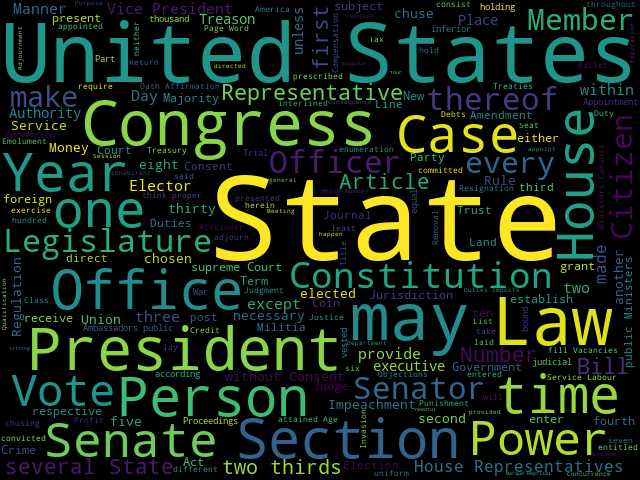
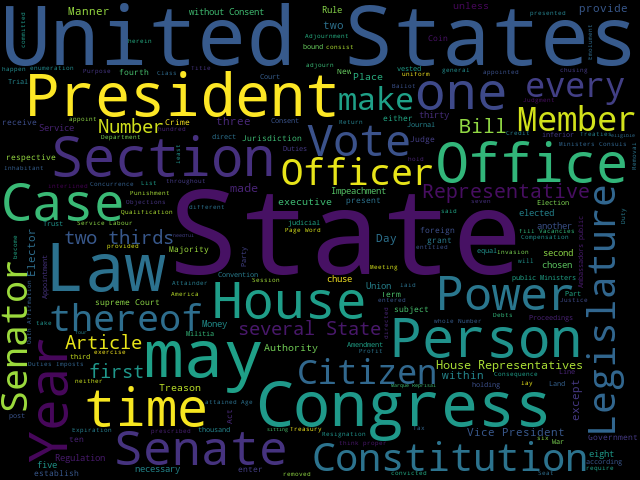
Site updated: 2017-08-25 18:28:23

diff --git a/2017/08/22/python-jieba-wordcloud/index.html b/2017/08/22/python-jieba-wordcloud/index.html
@@ -124,7 +124,7 @@ import jiebaseg_list = jieba.cut(srcWd, cut_all=True)print(u&apos;Full mode:&apo
 <meta property="og:image" content="https://brantou.github.io/images/constitution-s.png">
 <meta property="og:image" content="https://brantou.github.io/images/xiyouji.png">
 <meta property="og:image" content="https://brantou.github.io/images/xiyouji-mask.png">
-<meta property="og:updated_time" content="2017-08-25T10:25:33.066Z">
+<meta property="og:updated_time" content="2017-08-25T10:28:06.416Z">
 <meta name="twitter:card" content="summary">
 <meta name="twitter:title" content="玩转词云">
 <meta name="twitter:description" content="1 jieba中文分词&amp;#x2013;做最好的Python中文分词组件
@@ -466,12 +466,12 @@ import jiebaseg_list = jieba.cut(srcWd, cut_all=True)print(u&apos;Full mode:&apo
         
 
 
-<div id="outline-container-org070a5ba" class="outline-2">
-<h2 id="org070a5ba"><a id="ID-681fffd0-61dc-44eb-860a-82cfbfe2c080"></a><span class="section-number-2">1</span> jieba中文分词&#x2013;做最好的Python中文分词组件</h2>
+<div id="outline-container-orga13ae5a" class="outline-2">
+<h2 id="orga13ae5a"><a id="ID-681fffd0-61dc-44eb-860a-82cfbfe2c080"></a><span class="section-number-2">1</span> jieba中文分词&#x2013;做最好的Python中文分词组件</h2>
 <div class="outline-text-2" id="text-1">
 </div>
-<div id="outline-container-org3a57d0c" class="outline-3">
-<h3 id="org3a57d0c"><a id="ID-a7a6f9a3-eee0-4e7a-8ec2-a3281cbdb2ba"></a><span class="section-number-3">1.1</span> 分词</h3>
+<div id="outline-container-org812795e" class="outline-3">
+<h3 id="org812795e"><a id="ID-a7a6f9a3-eee0-4e7a-8ec2-a3281cbdb2ba"></a><span class="section-number-3">1.1</span> 分词</h3>
 <div class="outline-text-3" id="text-1-1">
 <div class="org-src-container">
 <figure class="highlight python"><table><tr><td class="code"><pre><span class="line"><span class="keyword">import</span> jieba</span><br><span class="line"></span><br><span class="line">seg_list = jieba.cut(srcWd, cut_all=<span class="keyword">True</span>)</span><br><span class="line">print(<span class="string">u'Full mode:'</span> + <span class="string">u'/ '</span>.join(seg_list))</span><br><span class="line"></span><br><span class="line">seg_list = jieba.cut(srcWd, cut_all=<span class="keyword">False</span>)</span><br><span class="line">print(<span class="string">u'Default mode:'</span> + <span class="string">u'/ '</span>.join(seg_list))</span><br><span class="line"></span><br><span class="line">seg_list = jieba.cut_for_search(srcWd)</span><br><span class="line">print(<span class="string">u', '</span>.join(seg_list))</span><br></pre></td></tr></table></figure>
@@ -492,8 +492,8 @@ Default mode:我/ 目前/ 在/ 学习/ Golang/ 和/ Python/ 。
 </pre>
 </div>
 </div>
-<div id="outline-container-orga263f2f" class="outline-3">
-<h3 id="orga263f2f"><a id="ID-ba473993-dd11-4116-8578-b31a6161ed0e"></a><span class="section-number-3">1.2</span> 自定义词典</h3>
+<div id="outline-container-org0109e6a" class="outline-3">
+<h3 id="org0109e6a"><a id="ID-ba473993-dd11-4116-8578-b31a6161ed0e"></a><span class="section-number-3">1.2</span> 自定义词典</h3>
 <div class="outline-text-3" id="text-1-2">
 <p>
 招聘信息收集了很多，但是关键字提取却不是很理想，我查看了jiaba的词典里，基本没有对英文专有名词的支持，
@@ -518,8 +518,8 @@ Default mode:我/ 目前/ 在/ 学习/ Golang/ 和/ Python/ 。
 </div>
 </div>
 
-<div id="outline-container-orgfebade0" class="outline-3">
-<h3 id="orgfebade0"><a id="ID-0f9f838d-0b96-4d20-bbd0-f9b31664e187"></a><span class="section-number-3">1.3</span> 调整词典</h3>
+<div id="outline-container-orgac26c4c" class="outline-3">
+<h3 id="orgac26c4c"><a id="ID-0f9f838d-0b96-4d20-bbd0-f9b31664e187"></a><span class="section-number-3">1.3</span> 调整词典</h3>
 <div class="outline-text-3" id="text-1-3">
 <div class="org-src-container">
 <figure class="highlight python"><table><tr><td class="code"><pre><span class="line"><span class="keyword">import</span> jieba</span><br><span class="line"><span class="keyword">import</span> jieba.analyse</span><br><span class="line"></span><br><span class="line">print(<span class="string">', '</span>.join(</span><br><span class="line">    jieba.analyse.extract_tags(srcWd, allowPOS=(<span class="string">'n'</span>, <span class="string">'nz'</span>, <span class="string">'eng'</span>, <span class="string">'vn'</span>))))</span><br><span class="line">jieba.load_userdict(<span class="string">'../resource/userdict.txt'</span>)</span><br><span class="line">print(<span class="string">', '</span>.join(</span><br><span class="line">    jieba.analyse.extract_tags(srcWd, allowPOS=(<span class="string">'n'</span>, <span class="string">'nz'</span>, <span class="string">'eng'</span>, <span class="string">'vn'</span>))))</span><br></pre></td></tr></table></figure>
@@ -533,8 +533,8 @@ Default mode:我/ 目前/ 在/ 学习/ Golang/ 和/ Python/ 。
 </div>
 </div>
 
-<div id="outline-container-org9c075c7" class="outline-3">
-<h3 id="org9c075c7"><a id="ID-7308abe6-a074-4153-a4c0-bb74f199bb07"></a><span class="section-number-3">1.4</span> 关键词提取</h3>
+<div id="outline-container-orgf624ef8" class="outline-3">
+<h3 id="orgf624ef8"><a id="ID-7308abe6-a074-4153-a4c0-bb74f199bb07"></a><span class="section-number-3">1.4</span> 关键词提取</h3>
 <div class="outline-text-3" id="text-1-4">
 <div class="org-src-container">
 <figure class="highlight python"><table><tr><td class="code"><pre><span class="line"><span class="keyword">import</span> jieba.analyse</span><br><span class="line"></span><br><span class="line">print(<span class="string">', '</span>.join(jieba.analyse.extract_tags(srcWd, allowPOS=())))</span><br><span class="line">print(<span class="string">', '</span>.join(</span><br><span class="line">    jieba.analyse.extract_tags(srcWd, allowPOS=(<span class="string">'n'</span>, <span class="string">'nt'</span>, <span class="string">'nz'</span>, <span class="string">'eng'</span>, <span class="string">'vn'</span></span><br><span class="line">                                                ))))</span><br><span class="line">wordlst = jieba.analyse.extract_tags(</span><br><span class="line">    srcWd, withWeight=<span class="keyword">True</span>, allowPOS=(<span class="string">'n'</span>, <span class="string">'nt'</span>, <span class="string">'nz'</span>, <span class="string">'eng'</span>, <span class="string">'vn'</span>))</span><br><span class="line"></span><br><span class="line"><span class="keyword">for</span> word <span class="keyword">in</span> wordlst:</span><br><span class="line">    print(word[<span class="number">0</span>] + <span class="string">": "</span> + str(word[<span class="number">1</span>]))</span><br></pre></td></tr></table></figure>
@@ -558,8 +558,8 @@ Default mode:我/ 目前/ 在/ 学习/ Golang/ 和/ Python/ 。
 </div>
 </div>
 
-<div id="outline-container-org4fae528" class="outline-3">
-<h3 id="org4fae528"><a id="ID-ba65f4b7-159b-440a-9df3-ac90465716e4"></a><span class="section-number-3">1.5</span> 词性标注</h3>
+<div id="outline-container-org9f9fca0" class="outline-3">
+<h3 id="org9f9fca0"><a id="ID-ba65f4b7-159b-440a-9df3-ac90465716e4"></a><span class="section-number-3">1.5</span> 词性标注</h3>
 <div class="outline-text-3" id="text-1-5">
 <div class="org-src-container">
 <figure class="highlight python"><table><tr><td class="code"><pre><span class="line"><span class="keyword">import</span> jieba</span><br><span class="line"><span class="keyword">import</span> jieba.posseg <span class="keyword">as</span> pseg</span><br><span class="line"></span><br><span class="line">jieba.load_userdict(<span class="string">'../resource/userdict.txt'</span>)</span><br><span class="line">words = pseg.cut(srcWd)</span><br><span class="line"><span class="keyword">for</span> word, flag <span class="keyword">in</span> words:</span><br><span class="line">    print(<span class="string">'%s %s'</span> % (word, flag))</span><br></pre></td></tr></table></figure>
@@ -648,16 +648,16 @@ hive nz
 </div>
 </div>
 
-<div id="outline-container-orgddae448" class="outline-2">
-<h2 id="orgddae448"><a id="ID-d3a8f6d2-c043-4104-9f83-08e71a7a5c7a"></a><span class="section-number-2">2</span> 词云</h2>
+<div id="outline-container-org28bc50a" class="outline-2">
+<h2 id="org28bc50a"><a id="ID-d3a8f6d2-c043-4104-9f83-08e71a7a5c7a"></a><span class="section-number-2">2</span> 词云</h2>
 <div class="outline-text-2" id="text-2">
 </div>
 
-<div id="outline-container-org54c588b" class="outline-3">
-<h3 id="org54c588b"><a id="ID-9133f12f-f7ba-4019-b21f-fbdea70088b1"></a><span class="section-number-3">2.1</span> 简单词云&#x2013;美国宪法的词云</h3>
+<div id="outline-container-org2994d67" class="outline-3">
+<h3 id="org2994d67"><a id="ID-9133f12f-f7ba-4019-b21f-fbdea70088b1"></a><span class="section-number-3">2.1</span> 简单词云&#x2013;美国宪法的词云</h3>
 <div class="outline-text-3" id="text-2-1">
 <div class="org-src-container">
-<figure class="highlight python"><table><tr><td class="code"><pre><span class="line"><span class="string">"""</span><br><span class="line">Minimal Example</span><br><span class="line">===============</span><br><span class="line">Generating a square wordcloud from the US constitution using default arguments.</span><br><span class="line">"""</span></span><br><span class="line"></span><br><span class="line"><span class="keyword">from</span> wordcloud <span class="keyword">import</span> WordCloud</span><br><span class="line"></span><br><span class="line"><span class="comment"># Read the whole text.</span></span><br><span class="line">text = open(<span class="string">'../resource/constitution.txt'</span>).read()</span><br><span class="line"></span><br><span class="line"><span class="comment"># Generate a word cloud image</span></span><br><span class="line">wordcloud = WordCloud(width=<span class="number">640</span>, height = <span class="number">480</span>,).generate(text)</span><br><span class="line">wordcloud.to_file(<span class="string">'../images/constitution-n.png'</span>)</span><br><span class="line"></span><br><span class="line">wordcloud = WordCloud(max_font_size=<span class="number">40</span>).generate(text)</span><br><span class="line">wordcloud.to_file(<span class="string">'../images/constitution-s.png'</span>)</span><br></pre></td></tr></table></figure>
+<figure class="highlight python"><table><tr><td class="code"><pre><span class="line"><span class="string">"""</span><br><span class="line">Minimal Example</span><br><span class="line">===============</span><br><span class="line">Generating a square wordcloud from the US constitution using default arguments.</span><br><span class="line">"""</span></span><br><span class="line"></span><br><span class="line"><span class="keyword">from</span> wordcloud <span class="keyword">import</span> WordCloud</span><br><span class="line"></span><br><span class="line"><span class="comment"># Read the whole text.</span></span><br><span class="line">text = open(<span class="string">'../resource/constitution.txt'</span>).read()</span><br><span class="line"></span><br><span class="line"><span class="comment"># Generate a word cloud image</span></span><br><span class="line">wordcloud = WordCloud(width=<span class="number">640</span>, height=<span class="number">480</span>).generate(text)</span><br><span class="line">wordcloud.to_file(<span class="string">'../images/constitution-n.png'</span>)</span><br><span class="line"></span><br><span class="line">wordcloud = WordCloud(width=<span class="number">640</span>, height=<span class="number">480</span>, max_font_size=<span class="number">40</span>).generate(text)</span><br><span class="line">wordcloud.to_file(<span class="string">'../images/constitution-s.png'</span>)</span><br></pre></td></tr></table></figure>
 </div>
 
 <img src="/images/constitution-n.png">
@@ -666,8 +666,8 @@ hive nz
 </div>
 </div>
 
-<div id="outline-container-orgea4ae10" class="outline-3">
-<h3 id="orgea4ae10"><a id="ID-a83e73b6-c132-4eb3-b968-d985cd2a5ceb"></a><span class="section-number-3">2.2</span> 西游记的词云</h3>
+<div id="outline-container-org6da7bf2" class="outline-3">
+<h3 id="org6da7bf2"><a id="ID-a83e73b6-c132-4eb3-b968-d985cd2a5ceb"></a><span class="section-number-3">2.2</span> 西游记的词云</h3>
 <div class="outline-text-3" id="text-2-2">
 <div class="org-src-container">
 <figure class="highlight python"><table><tr><td class="code"><pre><span class="line"><span class="keyword">import</span> jieba.analyse</span><br><span class="line"><span class="keyword">from</span> wordcloud <span class="keyword">import</span> WordCloud</span><br><span class="line"><span class="keyword">import</span> numpy <span class="keyword">as</span> np</span><br><span class="line"><span class="keyword">from</span> PIL <span class="keyword">import</span> Image</span><br><span class="line"></span><br><span class="line">font_path = <span class="string">'../resource/tyzkaishu.ttf'</span></span><br><span class="line">width = <span class="number">640</span></span><br><span class="line">height = <span class="number">480</span></span><br><span class="line"></span><br><span class="line">text = open(<span class="string">'../resource/xiyouji.txt'</span>).read()</span><br><span class="line">words = jieba.analyse.extract_tags(text, topK=<span class="number">100</span>, withWeight=<span class="keyword">True</span>)</span><br><span class="line"></span><br><span class="line">word_freqs = {}</span><br><span class="line"><span class="keyword">for</span> word <span class="keyword">in</span> words:</span><br><span class="line">    word_freqs[word[<span class="number">0</span>]] = word[<span class="number">1</span>]</span><br><span class="line"></span><br><span class="line">wordcloud = WordCloud(</span><br><span class="line">    font_path=font_path, width=width,</span><br><span class="line">    height=height).generate_from_frequencies(word_freqs)</span><br><span class="line">wordcloud.to_file(<span class="string">'../images/xiyouji.png'</span>)</span><br><span class="line"></span><br><span class="line">mask = np.array(Image.open(<span class="string">'../resource/stormtrooper_mask.png'</span>))</span><br><span class="line">wordcloud = WordCloud(</span><br><span class="line">    background_color=<span class="string">"white"</span>,</span><br><span class="line">    font_path=font_path,</span><br><span class="line">    width=width,</span><br><span class="line">    height=height,</span><br><span class="line">    mask=mask).generate_from_frequencies(word_freqs)</span><br><span class="line">wordcloud.to_file(<span class="string">'../images/xiyouji-mask.png'</span>)</span><br></pre></td></tr></table></figure>
@@ -680,7 +680,7 @@ hive nz
 </div>
 </div>
 
-Last Updated 2017-08-25 Fri 18:25.<br>Render by <a href="https://github.com/CodeFalling/hexo-renderer-org" rel="external nofollow noopener noreferrer" target="_blank">hexo-renderer-org</a> with <a href="http://www.gnu.org/software/emacs/" rel="external nofollow noopener noreferrer" target="_blank">Emacs</a> 24.5.1 (<a href="http://orgmode.org" rel="external nofollow noopener noreferrer" target="_blank">Org</a> mode 9.0.6)
+Last Updated 2017-08-25 Fri 18:28.<br>Render by <a href="https://github.com/CodeFalling/hexo-renderer-org" rel="external nofollow noopener noreferrer" target="_blank">hexo-renderer-org</a> with <a href="http://www.gnu.org/software/emacs/" rel="external nofollow noopener noreferrer" target="_blank">Emacs</a> 24.5.1 (<a href="http://orgmode.org" rel="external nofollow noopener noreferrer" target="_blank">Org</a> mode 9.0.6)
 
       
     </div>
@@ -942,7 +942,7 @@ Last Updated 2017-08-25 Fri 18:25.<br>Render by <a href="https://github.com/Code
             
 
             
-              <div class="post-toc-content"><ol class="nav"><li class="nav-item nav-level-2"><a class="nav-link" href="#org070a5ba"><span class="nav-text">1 jieba中文分词–做最好的Python中文分词组件</span></a><ol class="nav-child"><li class="nav-item nav-level-3"><a class="nav-link" href="#org3a57d0c"><span class="nav-text">1.1 分词</span></a></li><li class="nav-item nav-level-3"><a class="nav-link" href="#orga263f2f"><span class="nav-text">1.2 自定义词典</span></a></li><li class="nav-item nav-level-3"><a class="nav-link" href="#orgfebade0"><span class="nav-text">1.3 调整词典</span></a></li><li class="nav-item nav-level-3"><a class="nav-link" href="#org9c075c7"><span class="nav-text">1.4 关键词提取</span></a></li><li class="nav-item nav-level-3"><a class="nav-link" href="#org4fae528"><span class="nav-text">1.5 词性标注</span></a></li></ol></li><li class="nav-item nav-level-2"><a class="nav-link" href="#orgddae448"><span class="nav-text">2 词云</span></a><ol class="nav-child"><li class="nav-item nav-level-3"><a class="nav-link" href="#org54c588b"><span class="nav-text">2.1 简单词云–美国宪法的词云</span></a></li><li class="nav-item nav-level-3"><a class="nav-link" href="#orgea4ae10"><span class="nav-text">2.2 西游记的词云</span></a></li></ol></li></ol></div>
+              <div class="post-toc-content"><ol class="nav"><li class="nav-item nav-level-2"><a class="nav-link" href="#orga13ae5a"><span class="nav-text">1 jieba中文分词–做最好的Python中文分词组件</span></a><ol class="nav-child"><li class="nav-item nav-level-3"><a class="nav-link" href="#org812795e"><span class="nav-text">1.1 分词</span></a></li><li class="nav-item nav-level-3"><a class="nav-link" href="#org0109e6a"><span class="nav-text">1.2 自定义词典</span></a></li><li class="nav-item nav-level-3"><a class="nav-link" href="#orgac26c4c"><span class="nav-text">1.3 调整词典</span></a></li><li class="nav-item nav-level-3"><a class="nav-link" href="#orgf624ef8"><span class="nav-text">1.4 关键词提取</span></a></li><li class="nav-item nav-level-3"><a class="nav-link" href="#org9f9fca0"><span class="nav-text">1.5 词性标注</span></a></li></ol></li><li class="nav-item nav-level-2"><a class="nav-link" href="#org28bc50a"><span class="nav-text">2 词云</span></a><ol class="nav-child"><li class="nav-item nav-level-3"><a class="nav-link" href="#org2994d67"><span class="nav-text">2.1 简单词云–美国宪法的词云</span></a></li><li class="nav-item nav-level-3"><a class="nav-link" href="#org6da7bf2"><span class="nav-text">2.2 西游记的词云</span></a></li></ol></li></ol></div>
             
 
           </div>

diff --git a/index.html b/index.html
@@ -440,12 +440,12 @@
             
 
 
-<div id="outline-container-org070a5ba" class="outline-2">
-<h2 id="org070a5ba"><a id="ID-681fffd0-61dc-44eb-860a-82cfbfe2c080"></a><span class="section-number-2">1</span> jieba中文分词&#x2013;做最好的Python中文分词组件</h2>
+<div id="outline-container-orga13ae5a" class="outline-2">
+<h2 id="orga13ae5a"><a id="ID-681fffd0-61dc-44eb-860a-82cfbfe2c080"></a><span class="section-number-2">1</span> jieba中文分词&#x2013;做最好的Python中文分词组件</h2>
 <div class="outline-text-2" id="text-1">
 </div>
-<div id="outline-container-org3a57d0c" class="outline-3">
-<h3 id="org3a57d0c"><a id="ID-a7a6f9a3-eee0-4e7a-8ec2-a3281cbdb2ba"></a><span class="section-number-3">1.1</span> 分词</h3>
+<div id="outline-container-org812795e" class="outline-3">
+<h3 id="org812795e"><a id="ID-a7a6f9a3-eee0-4e7a-8ec2-a3281cbdb2ba"></a><span class="section-number-3">1.1</span> 分词</h3>
 <div class="outline-text-3" id="text-1-1">
 <div class="org-src-container">
 <figure class="highlight python"><table><tr><td class="code"><pre><span class="line"><span class="keyword">import</span> jieba</span><br><span class="line"></span><br><span class="line">seg_list = jieba.cut(srcWd, cut_all=<span class="keyword">True</span>)</span><br><span class="line">print(<span class="string">u'Full mode:'</span> + <span class="string">u'/ '</span>.join(seg_list))</span><br><span class="line"></span><br><span class="line">seg_list = jieba.cut(srcWd, cut_all=<span class="keyword">False</span>)</span><br><span class="line">print(<span class="string">u'Default mode:'</span> + <span class="string">u'/ '</span>.join(seg_list))</span><br><span class="line"></span><br><span class="line">seg_list = jieba.cut_for_search(srcWd)</span><br><span class="line">print(<span class="string">u', '</span>.join(seg_list))</span><br></pre></td></tr></table></figure>
@@ -466,8 +466,8 @@ Default mode:我/ 目前/ 在/ 学习/ Golang/ 和/ Python/ 。
 </pre>
 </div>
 </div>
-<div id="outline-container-orga263f2f" class="outline-3">
-<h3 id="orga263f2f"><a id="ID-ba473993-dd11-4116-8578-b31a6161ed0e"></a><span class="section-number-3">1.2</span> 自定义词典</h3>
+<div id="outline-container-org0109e6a" class="outline-3">
+<h3 id="org0109e6a"><a id="ID-ba473993-dd11-4116-8578-b31a6161ed0e"></a><span class="section-number-3">1.2</span> 自定义词典</h3>
 <div class="outline-text-3" id="text-1-2">
 <p>
 招聘信息收集了很多，但是关键字提取却不是很理想，我查看了jiaba的词典里，基本没有对英文专有名词的支持，
@@ -492,8 +492,8 @@ Default mode:我/ 目前/ 在/ 学习/ Golang/ 和/ Python/ 。
 </div>
 </div>
 
-<div id="outline-container-orgfebade0" class="outline-3">
-<h3 id="orgfebade0"><a id="ID-0f9f838d-0b96-4d20-bbd0-f9b31664e187"></a><span class="section-number-3">1.3</span> 调整词典</h3>
+<div id="outline-container-orgac26c4c" class="outline-3">
+<h3 id="orgac26c4c"><a id="ID-0f9f838d-0b96-4d20-bbd0-f9b31664e187"></a><span class="section-number-3">1.3</span> 调整词典</h3>
 <div class="outline-text-3" id="text-1-3">
 <div class="org-src-container">
 <figure class="highlight python"><table><tr><td class="code"><pre><span class="line"><span class="keyword">import</span> jieba</span><br><span class="line"><span class="keyword">import</span> jieba.analyse</span><br><span class="line"></span><br><span class="line">print(<span class="string">', '</span>.join(</span><br><span class="line">    jieba.analyse.extract_tags(srcWd, allowPOS=(<span class="string">'n'</span>, <span class="string">'nz'</span>, <span class="string">'eng'</span>, <span class="string">'vn'</span>))))</span><br><span class="line">jieba.load_userdict(<span class="string">'../resource/userdict.txt'</span>)</span><br><span class="line">print(<span class="string">', '</span>.join(</span><br><span class="line">    jieba.analyse.extract_tags(srcWd, allowPOS=(<span class="string">'n'</span>, <span class="string">'nz'</span>, <span class="string">'eng'</span>, <span class="string">'vn'</span>))))</span><br></pre></td></tr></table></figure>
@@ -507,8 +507,8 @@ Default mode:我/ 目前/ 在/ 学习/ Golang/ 和/ Python/ 。
 </div>
 </div>
 
-<div id="outline-container-org9c075c7" class="outline-3">
-<h3 id="org9c075c7"><a id="ID-7308abe6-a074-4153-a4c0-bb74f199bb07"></a><span class="section-number-3">1.4</span> 关键词提取</h3>
+<div id="outline-container-orgf624ef8" class="outline-3">
+<h3 id="orgf624ef8"><a id="ID-7308abe6-a074-4153-a4c0-bb74f199bb07"></a><span class="section-number-3">1.4</span> 关键词提取</h3>
 <div class="outline-text-3" id="text-1-4">
 <div class="org-src-container">
 <figure class="highlight python"><table><tr><td class="code"><pre><span class="line"><span class="keyword">import</span> jieba.analyse</span><br><span class="line"></span><br><span class="line">print(<span class="string">', '</span>.join(jieba.analyse.extract_tags(srcWd, allowPOS=())))</span><br><span class="line">print(<span class="string">', '</span>.join(</span><br><span class="line">    jieba.analyse.extract_tags(srcWd, allowPOS=(<span class="string">'n'</span>, <span class="string">'nt'</span>, <span class="string">'nz'</span>, <span class="string">'eng'</span>, <span class="string">'vn'</span></span><br><span class="line">                                                ))))</span><br><span class="line">wordlst = jieba.analyse.extract_tags(</span><br><span class="line">    srcWd, withWeight=<span class="keyword">True</span>, allowPOS=(<span class="string">'n'</span>, <span class="string">'nt'</span>, <span class="string">'nz'</span>, <span class="string">'eng'</span>, <span class="string">'vn'</span>))</span><br><span class="line"></span><br><span class="line"><span class="keyword">for</span> word <span class="keyword">in</span> wordlst:</span><br><span class="line">    print(word[<span class="number">0</span>] + <span class="string">": "</span> + str(word[<span class="number">1</span>]))</span><br></pre></td></tr></table></figure>
@@ -532,8 +532,8 @@ Default mode:我/ 目前/ 在/ 学习/ Golang/ 和/ Python/ 。
 </div>
 </div>
 
-<div id="outline-container-org4fae528" class="outline-3">
-<h3 id="org4fae528"><a id="ID-ba65f4b7-159b-440a-9df3-ac90465716e4"></a><span class="section-number-3">1.5</span> 词性标注</h3>
+<div id="outline-container-org9f9fca0" class="outline-3">
+<h3 id="org9f9fca0"><a id="ID-ba65f4b7-159b-440a-9df3-ac90465716e4"></a><span class="section-number-3">1.5</span> 词性标注</h3>
 <div class="outline-text-3" id="text-1-5">
 <div class="org-src-container">
 <figure class="highlight python"><table><tr><td class="code"><pre><span class="line"><span class="keyword">import</span> jieba</span><br><span class="line"><span class="keyword">import</span> jieba.posseg <span class="keyword">as</span> pseg</span><br><span class="line"></span><br><span class="line">jieba.load_userdict(<span class="string">'../resource/userdict.txt'</span>)</span><br><span class="line">words = pseg.cut(srcWd)</span><br><span class="line"><span class="keyword">for</span> word, flag <span class="keyword">in</span> words:</span><br><span class="line">    print(<span class="string">'%s %s'</span> % (word, flag))</span><br></pre></td></tr></table></figure>
@@ -622,16 +622,16 @@ hive nz
 </div>
 </div>
 
-<div id="outline-container-orgddae448" class="outline-2">
-<h2 id="orgddae448"><a id="ID-d3a8f6d2-c043-4104-9f83-08e71a7a5c7a"></a><span class="section-number-2">2</span> 词云</h2>
+<div id="outline-container-org28bc50a" class="outline-2">
+<h2 id="org28bc50a"><a id="ID-d3a8f6d2-c043-4104-9f83-08e71a7a5c7a"></a><span class="section-number-2">2</span> 词云</h2>
 <div class="outline-text-2" id="text-2">
 </div>
 
-<div id="outline-container-org54c588b" class="outline-3">
-<h3 id="org54c588b"><a id="ID-9133f12f-f7ba-4019-b21f-fbdea70088b1"></a><span class="section-number-3">2.1</span> 简单词云&#x2013;美国宪法的词云</h3>
+<div id="outline-container-org2994d67" class="outline-3">
+<h3 id="org2994d67"><a id="ID-9133f12f-f7ba-4019-b21f-fbdea70088b1"></a><span class="section-number-3">2.1</span> 简单词云&#x2013;美国宪法的词云</h3>
 <div class="outline-text-3" id="text-2-1">
 <div class="org-src-container">
-<figure class="highlight python"><table><tr><td class="code"><pre><span class="line"><span class="string">"""</span><br><span class="line">Minimal Example</span><br><span class="line">===============</span><br><span class="line">Generating a square wordcloud from the US constitution using default arguments.</span><br><span class="line">"""</span></span><br><span class="line"></span><br><span class="line"><span class="keyword">from</span> wordcloud <span class="keyword">import</span> WordCloud</span><br><span class="line"></span><br><span class="line"><span class="comment"># Read the whole text.</span></span><br><span class="line">text = open(<span class="string">'../resource/constitution.txt'</span>).read()</span><br><span class="line"></span><br><span class="line"><span class="comment"># Generate a word cloud image</span></span><br><span class="line">wordcloud = WordCloud(width=<span class="number">640</span>, height = <span class="number">480</span>,).generate(text)</span><br><span class="line">wordcloud.to_file(<span class="string">'../images/constitution-n.png'</span>)</span><br><span class="line"></span><br><span class="line">wordcloud = WordCloud(max_font_size=<span class="number">40</span>).generate(text)</span><br><span class="line">wordcloud.to_file(<span class="string">'../images/constitution-s.png'</span>)</span><br></pre></td></tr></table></figure>
+<figure class="highlight python"><table><tr><td class="code"><pre><span class="line"><span class="string">"""</span><br><span class="line">Minimal Example</span><br><span class="line">===============</span><br><span class="line">Generating a square wordcloud from the US constitution using default arguments.</span><br><span class="line">"""</span></span><br><span class="line"></span><br><span class="line"><span class="keyword">from</span> wordcloud <span class="keyword">import</span> WordCloud</span><br><span class="line"></span><br><span class="line"><span class="comment"># Read the whole text.</span></span><br><span class="line">text = open(<span class="string">'../resource/constitution.txt'</span>).read()</span><br><span class="line"></span><br><span class="line"><span class="comment"># Generate a word cloud image</span></span><br><span class="line">wordcloud = WordCloud(width=<span class="number">640</span>, height=<span class="number">480</span>).generate(text)</span><br><span class="line">wordcloud.to_file(<span class="string">'../images/constitution-n.png'</span>)</span><br><span class="line"></span><br><span class="line">wordcloud = WordCloud(width=<span class="number">640</span>, height=<span class="number">480</span>, max_font_size=<span class="number">40</span>).generate(text)</span><br><span class="line">wordcloud.to_file(<span class="string">'../images/constitution-s.png'</span>)</span><br></pre></td></tr></table></figure>
 </div>
 
 <img src="/images/constitution-n.png">
@@ -640,8 +640,8 @@ hive nz
 </div>
 </div>
 
-<div id="outline-container-orgea4ae10" class="outline-3">
-<h3 id="orgea4ae10"><a id="ID-a83e73b6-c132-4eb3-b968-d985cd2a5ceb"></a><span class="section-number-3">2.2</span> 西游记的词云</h3>
+<div id="outline-container-org6da7bf2" class="outline-3">
+<h3 id="org6da7bf2"><a id="ID-a83e73b6-c132-4eb3-b968-d985cd2a5ceb"></a><span class="section-number-3">2.2</span> 西游记的词云</h3>
 <div class="outline-text-3" id="text-2-2">
 <div class="org-src-container">
 <figure class="highlight python"><table><tr><td class="code"><pre><span class="line"><span class="keyword">import</span> jieba.analyse</span><br><span class="line"><span class="keyword">from</span> wordcloud <span class="keyword">import</span> WordCloud</span><br><span class="line"><span class="keyword">import</span> numpy <span class="keyword">as</span> np</span><br><span class="line"><span class="keyword">from</span> PIL <span class="keyword">import</span> Image</span><br><span class="line"></span><br><span class="line">font_path = <span class="string">'../resource/tyzkaishu.ttf'</span></span><br><span class="line">width = <span class="number">640</span></span><br><span class="line">height = <span class="number">480</span></span><br><span class="line"></span><br><span class="line">text = open(<span class="string">'../resource/xiyouji.txt'</span>).read()</span><br><span class="line">words = jieba.analyse.extract_tags(text, topK=<span class="number">100</span>, withWeight=<span class="keyword">True</span>)</span><br><span class="line"></span><br><span class="line">word_freqs = {}</span><br><span class="line"><span class="keyword">for</span> word <span class="keyword">in</span> words:</span><br><span class="line">    word_freqs[word[<span class="number">0</span>]] = word[<span class="number">1</span>]</span><br><span class="line"></span><br><span class="line">wordcloud = WordCloud(</span><br><span class="line">    font_path=font_path, width=width,</span><br><span class="line">    height=height).generate_from_frequencies(word_freqs)</span><br><span class="line">wordcloud.to_file(<span class="string">'../images/xiyouji.png'</span>)</span><br><span class="line"></span><br><span class="line">mask = np.array(Image.open(<span class="string">'../resource/stormtrooper_mask.png'</span>))</span><br><span class="line">wordcloud = WordCloud(</span><br><span class="line">    background_color=<span class="string">"white"</span>,</span><br><span class="line">    font_path=font_path,</span><br><span class="line">    width=width,</span><br><span class="line">    height=height,</span><br><span class="line">    mask=mask).generate_from_frequencies(word_freqs)</span><br><span class="line">wordcloud.to_file(<span class="string">'../images/xiyouji-mask.png'</span>)</span><br></pre></td></tr></table></figure>
@@ -654,7 +654,7 @@ hive nz
 </div>
 </div>
 
-Last Updated 2017-08-25 Fri 18:25.<br>Render by <a href="https://github.com/CodeFalling/hexo-renderer-org" rel="external nofollow noopener noreferrer" target="_blank">hexo-renderer-org</a> with <a href="http://www.gnu.org/software/emacs/" rel="external nofollow noopener noreferrer" target="_blank">Emacs</a> 24.5.1 (<a href="http://orgmode.org" rel="external nofollow noopener noreferrer" target="_blank">Org</a> mode 9.0.6)
+Last Updated 2017-08-25 Fri 18:28.<br>Render by <a href="https://github.com/CodeFalling/hexo-renderer-org" rel="external nofollow noopener noreferrer" target="_blank">hexo-renderer-org</a> with <a href="http://www.gnu.org/software/emacs/" rel="external nofollow noopener noreferrer" target="_blank">Emacs</a> 24.5.1 (<a href="http://orgmode.org" rel="external nofollow noopener noreferrer" target="_blank">Org</a> mode 9.0.6)
 
           
         
